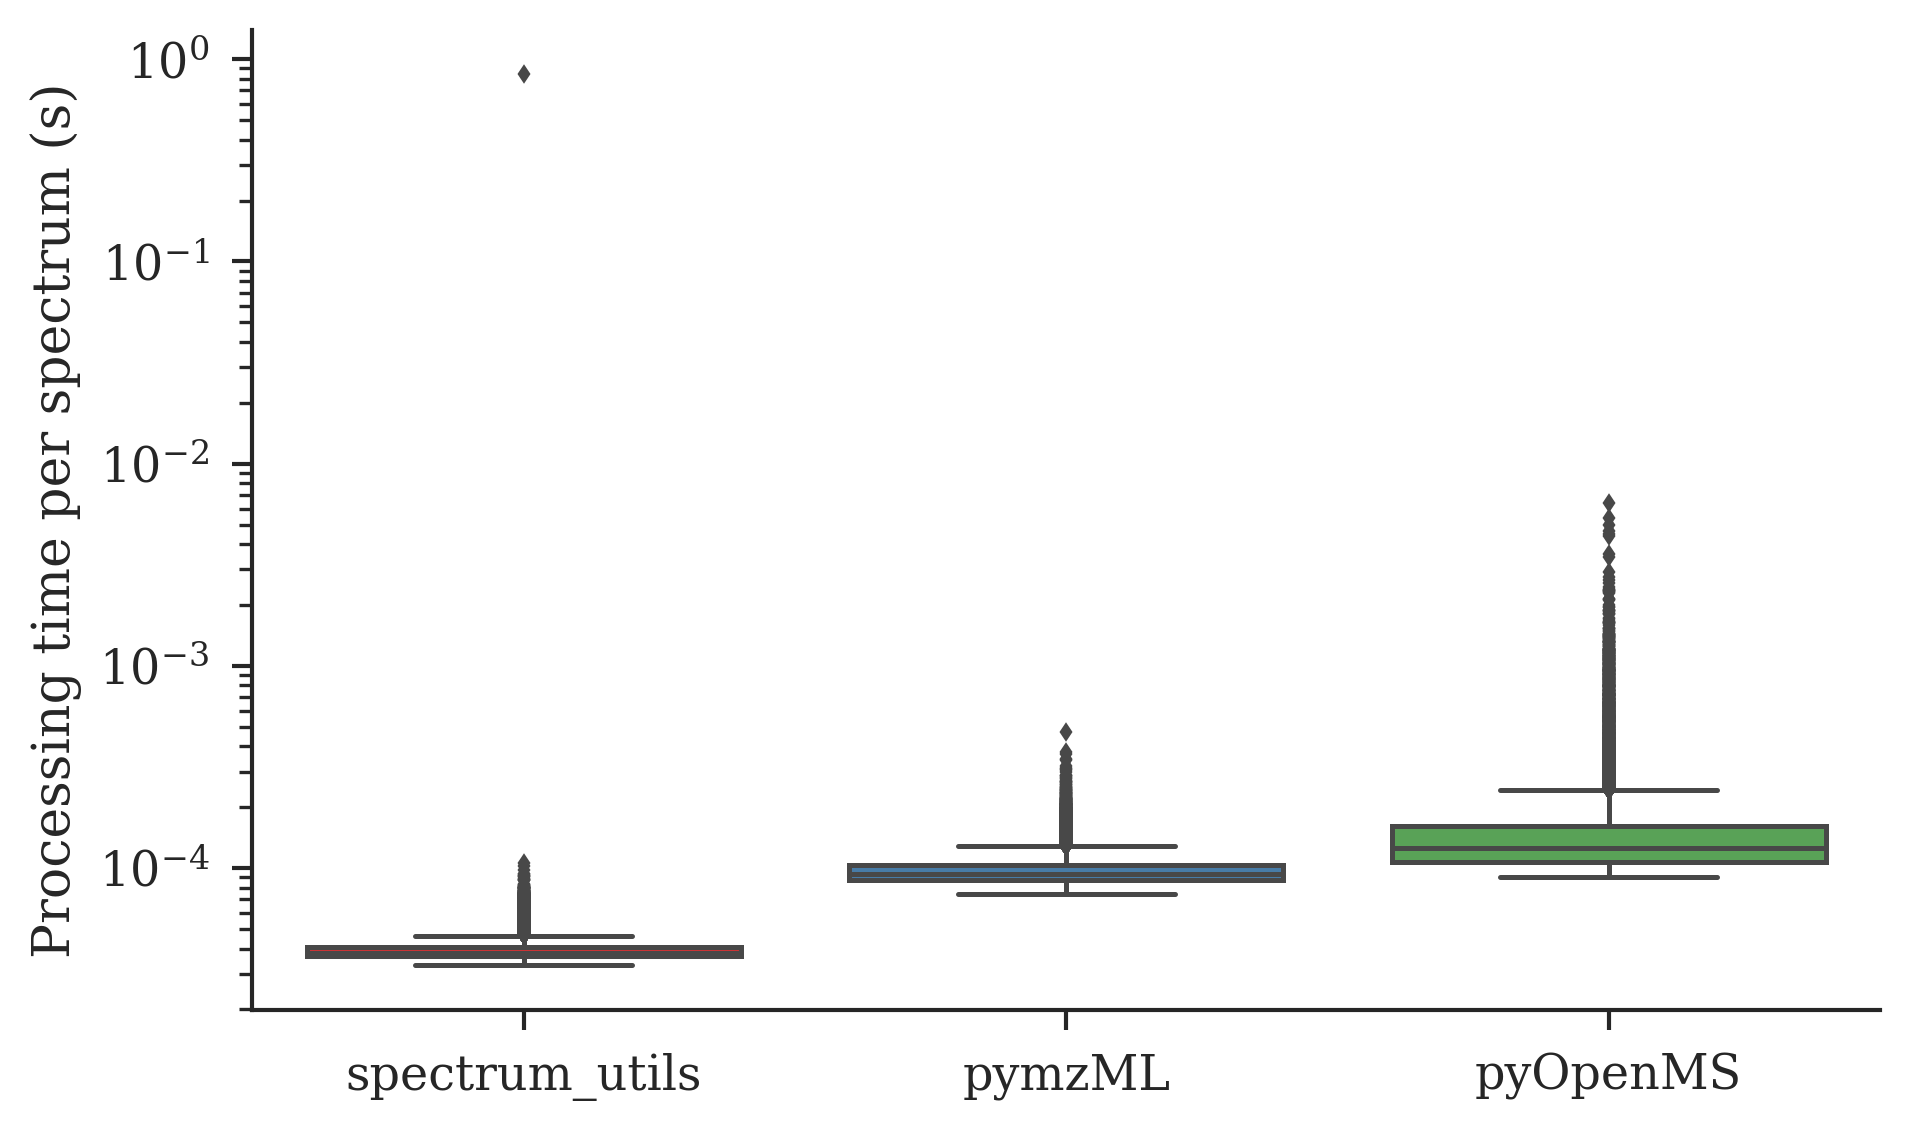
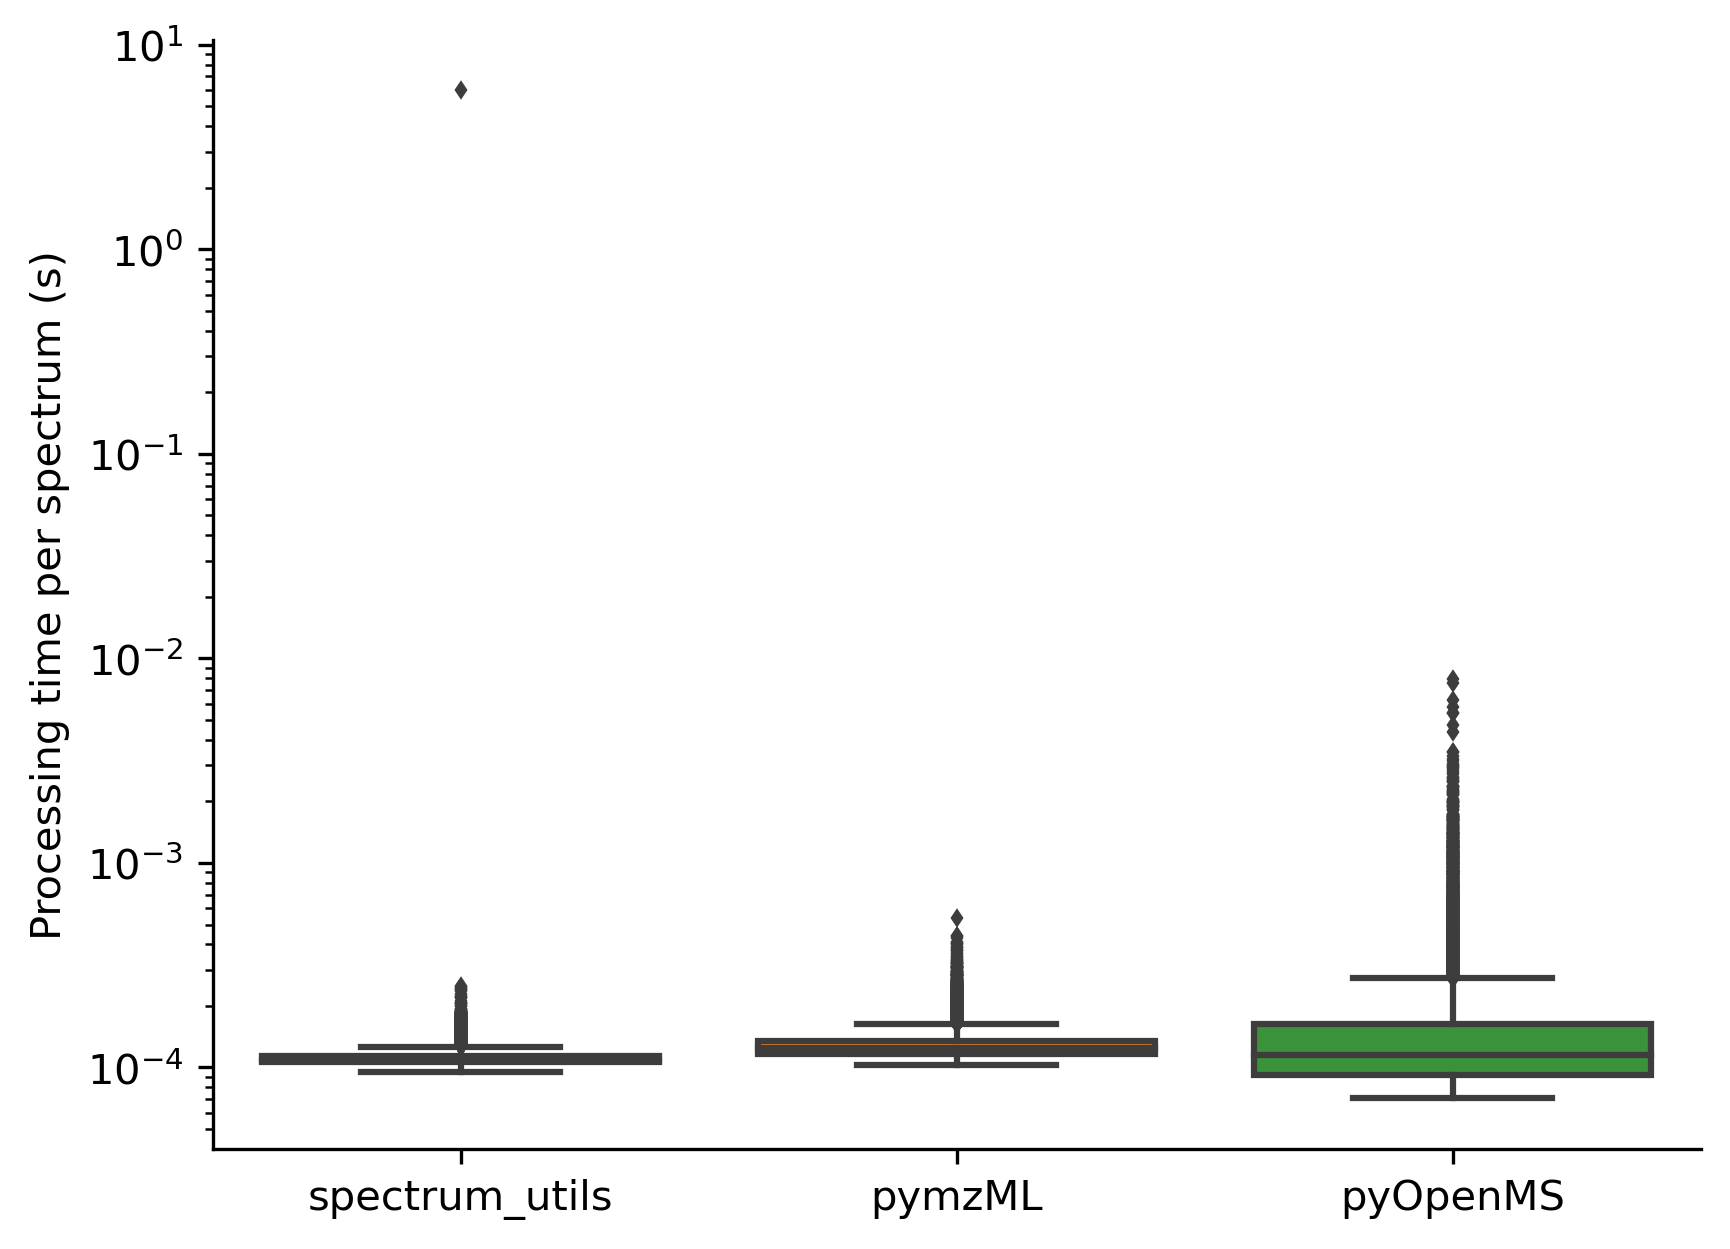
Update runtime benchmark

Changed region(s): [[0.0, 0.0309, 0.9676, 0.9903], [0.2497, 0.0619, 0.2809, 0.0928], [0.0, 0.0928, 0.0312, 0.1238]]

diff --git a/docs/src/runtime.md b/docs/src/runtime.md
@@ -2,7 +2,7 @@
 
 Spectrum processing in spectrum_utils has been optimized for computational efficiency using [NumPy](https://www.numpy.org/) and [Numba](http://numba.pydata.org/) to be able to process thousands of spectra per second.
 
-As shown below, spectrum_utils (version 0.3.0) is faster than alternative libraries, such as [pymzML](https://github.com/pymzml/pymzML/) (version 2.4.4) and [pyOpenMS](https://pyopenms.readthedocs.io/) (version 2.4.0), when performing typical spectrum processing tasks, including the following steps:
+As shown below, spectrum_utils (version 0.4.0) is faster than alternative libraries, such as [pymzML](https://github.com/pymzml/pymzML/) (version 2.5.2) and [pyOpenMS](https://pyopenms.readthedocs.io/) (version 2.7.0), when performing typical spectrum processing tasks, including the following steps:
 
 - The _m_/_z_ range is set to 100–1400 _m_/_z_.
 - The precursor peak is removed.
@@ -15,7 +15,7 @@ import time
 import matplotlib.pyplot as plt
 import numpy as np
 import pyopenms
-import pyteomics
+import pyteomics.mgf
 import seaborn as sns
 import spectrum_utils.spectrum as sus
 from pymzml.spec import Spectrum
@@ -37,28 +37,22 @@ def time_spectrum_utils(mgf_filename):
             or "charge" not in spec_dict["params"]
         ):
             continue
-        mz = spec_dict["m/z array"]
-        intensity = spec_dict["intensity array"]
-        retention_time = float(spec_dict["params"]["rtinseconds"])
-        precursor_mz = spec_dict["params"]["pepmass"][0]
-        precursor_charge = spec_dict["params"]["charge"][0]
-        identifier = spec_dict["params"]["title"]
 
         spectrum = sus.MsmsSpectrum(
-            identifier,
-            precursor_mz,
-            precursor_charge,
-            mz,
-            intensity,
-            retention_time=retention_time,
-        )
+            spec_dict["params"]["title"],
+            spec_dict["params"]["pepmass"][0],
+            spec_dict["params"]["charge"][0],
+            spec_dict["m/z array"],
+            spec_dict["intensity array"],
+            float(spec_dict["params"]["rtinseconds"]),
+        )._inner
 
         start_time = time.time()
 
         spectrum.set_mz_range(min_mz, max_mz)
         spectrum.remove_precursor_peak(fragment_tol_mass, fragment_tol_mode)
         spectrum.filter_intensity(min_intensity, max_num_peaks)
-        spectrum.scale_intensity(scaling="root", max_intensity=1)
+        spectrum.scale_intensity("root", 1)
 
         runtimes.append(time.time() - start_time)
 
@@ -160,7 +154,7 @@ ax.set_yscale("log")
 ax.xaxis.set_ticklabels(("spectrum_utils", "pymzML", "pyOpenMS"))
 ax.set_ylabel("Processing time per spectrum (s)")
 sns.despine()
-plt.show()
+plt.savefig("runtime.png", bbox_inches="tight", dpi=300, transparent=True)
 plt.close()
 ```
 
